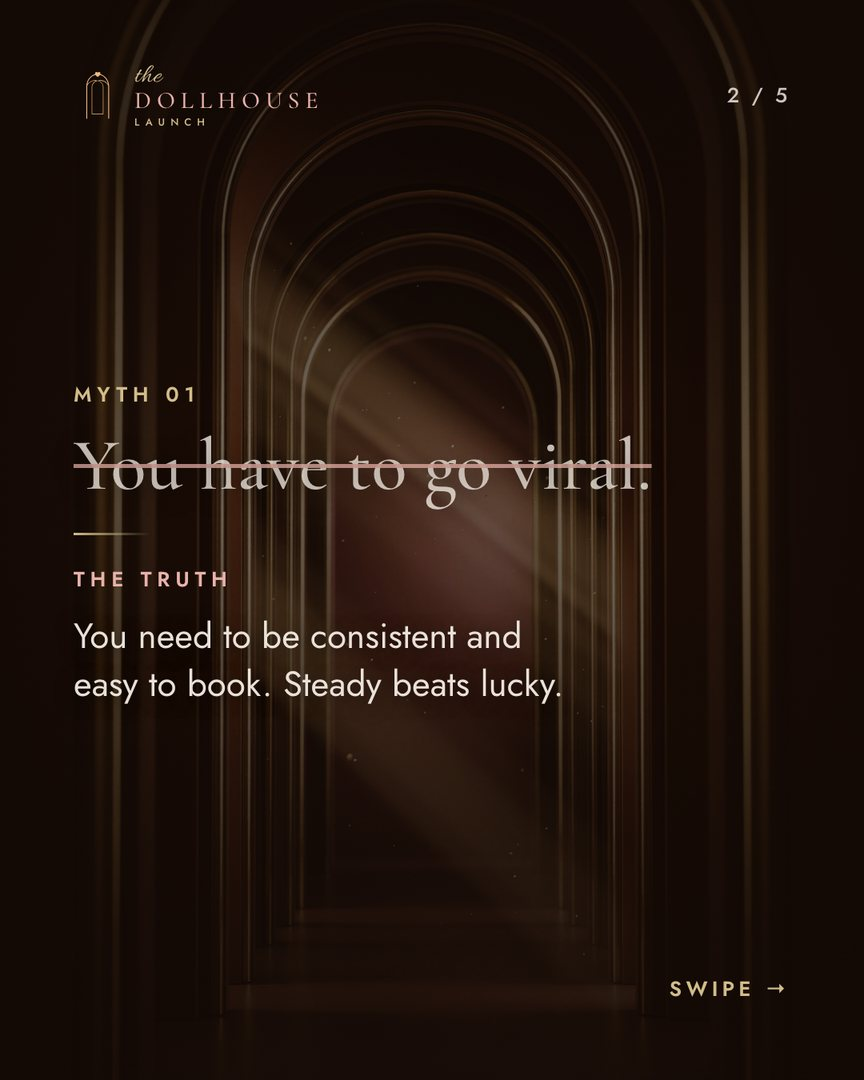
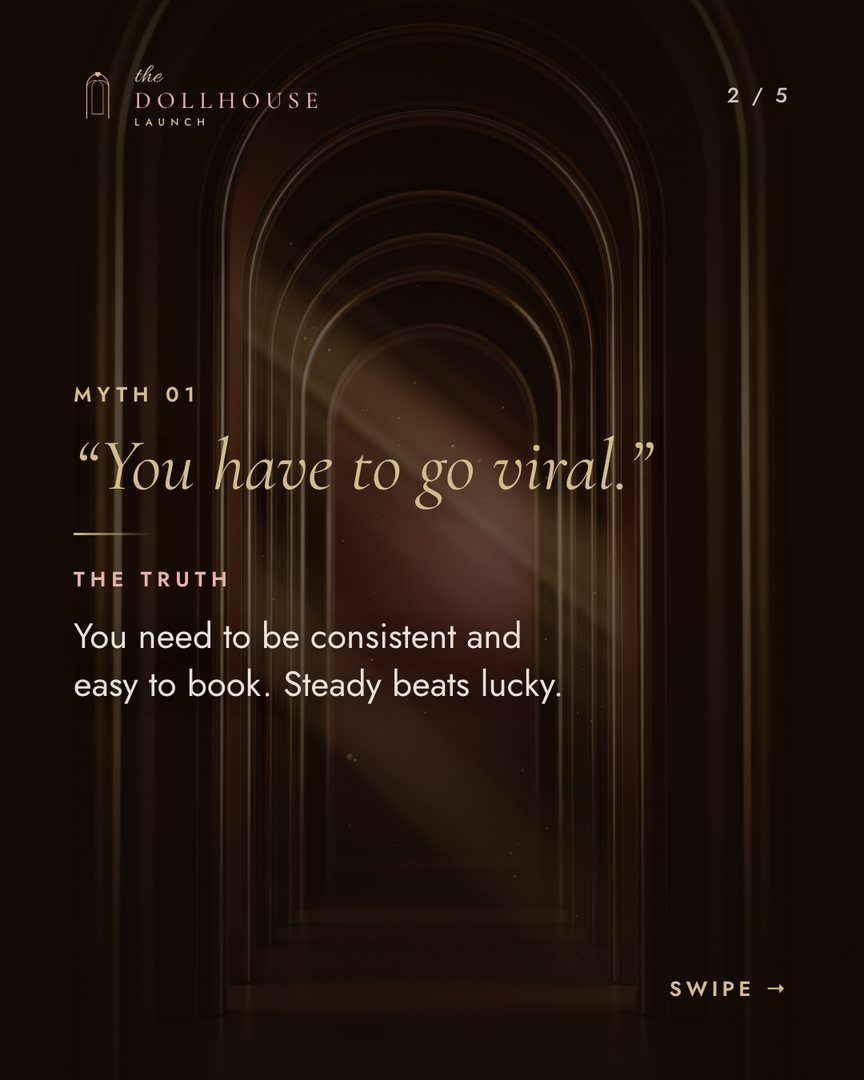
Add chat-style posts, remove swipe from single posts, drop crossed-out myth text

Changed region(s): [[0.0938, 0.3972, 0.75, 0.4889]]

diff --git a/src/components/LaunchSections.tsx b/src/components/LaunchSections.tsx
@@ -879,6 +879,15 @@ const STYLE_DEFS: StyleDef[] = [
     hooks: ["Booked out this week? Here is how.", "Questions we hear every week."],
     middle: ["Know what you need.", "Know what it costs.", "Know who to call."],
   },
+  {
+    name: "Chat-style posts",
+    desc: "A message conversation that shows how fast you reply and how easy it is to book.",
+    best: "Showing customers what working with you feels like: a quick question, a fast answer and a booked appointment.",
+    category: "graphic",
+    tone: "blush",
+    hooks: ["A message comes in. We reply instantly.", "From question to booked in one chat."],
+    middle: ["A customer asks about an opening.", "You reply right away with the options.", "They pick a time and it is booked."],
+  },
 ];
 
 type ExampleItem = { style: StyleDef; hook: string };
@@ -1077,11 +1086,12 @@ const STYLE_KEYS: Record<string, string> = {
   "Whiteboard lessons": "board",
   "Everyday object posts": "object",
   "Bold brand graphics": "bold",
+  "Chat-style posts": "chat",
 };
 function styleSlides(name: string, format: "single" | "carousel"): string[] {
   const key = STYLE_KEYS[name];
   const all = [1, 2, 3, 4, 5].map((n) => STYLE_URLS[`../assets/styles/${key}-${n}.jpg`]);
-  return format === "carousel" ? all : [all[0]];
+  return format === "carousel" ? all : [STYLE_URLS[`../assets/styles/${key}-single.jpg`]];
 }
 
 type SamplePost = { title: string; note: string; slides: string[] };
